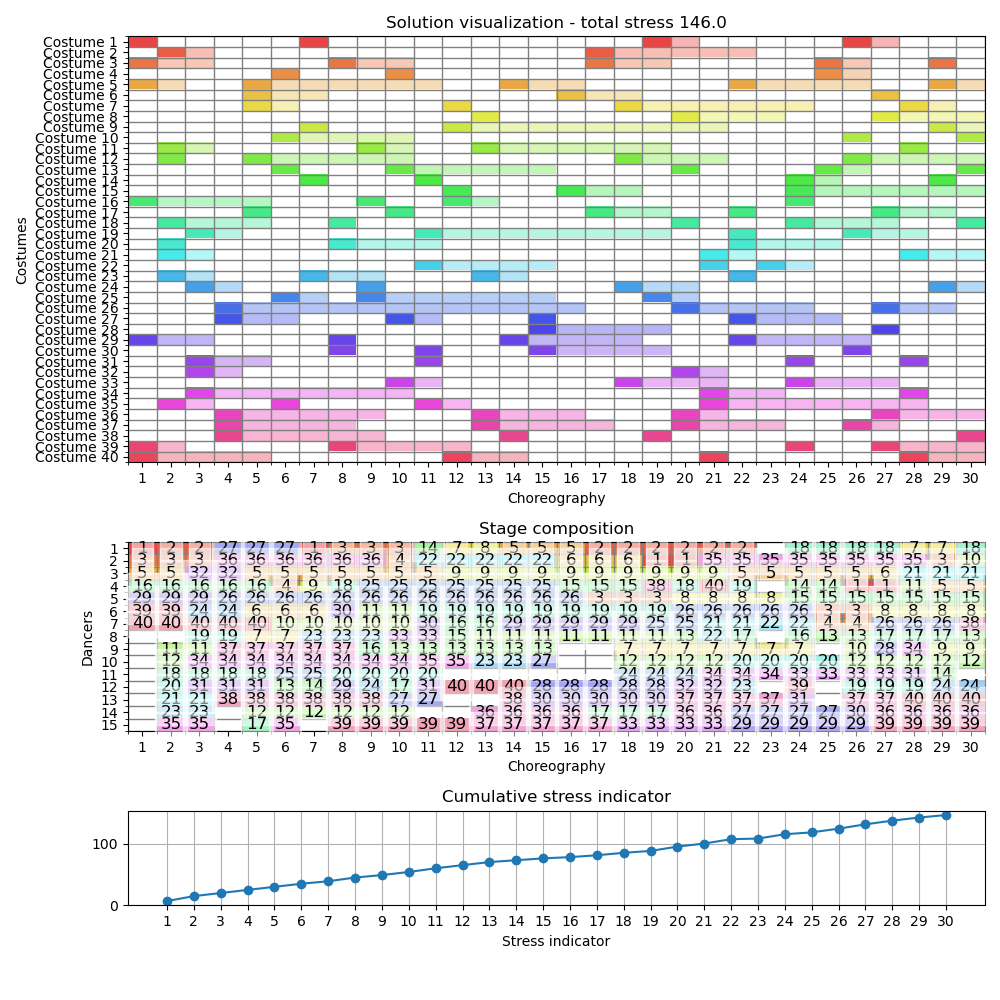
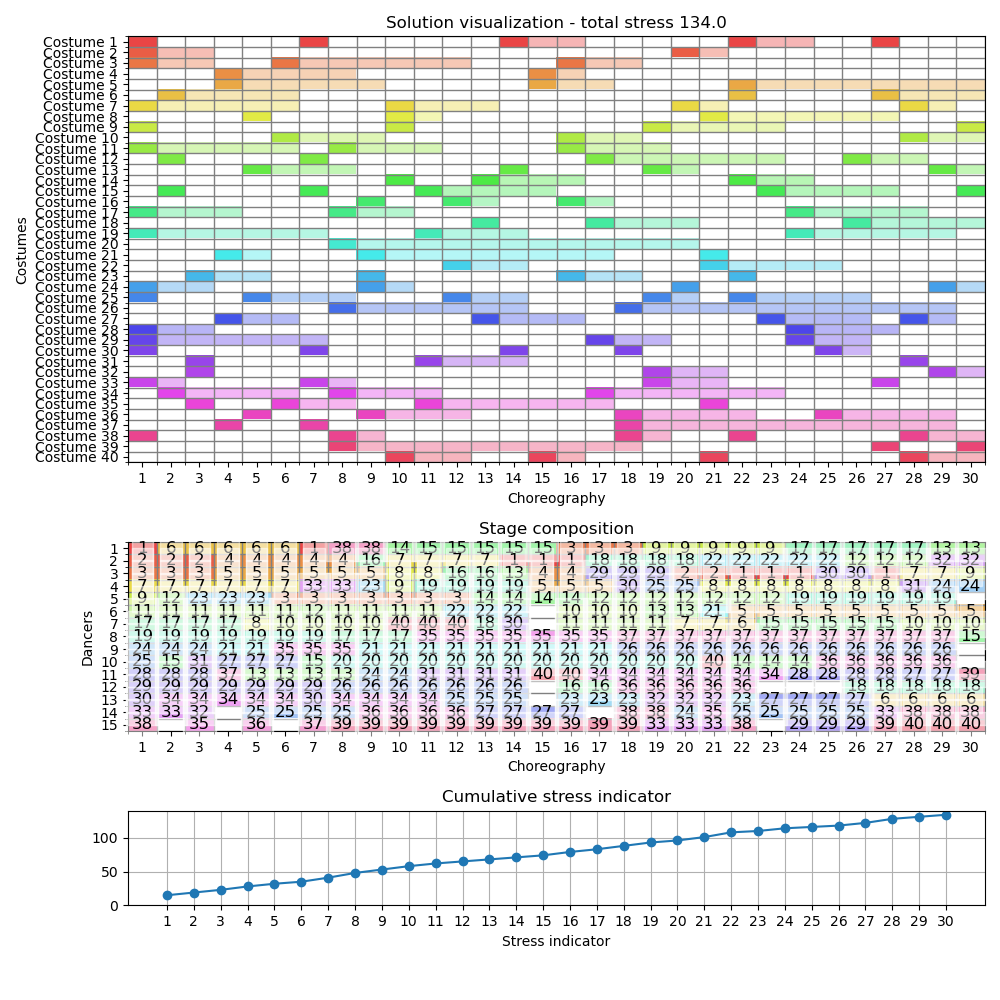
c good

diff --git a/solver_advanced.py b/solver_advanced.py
@@ -1,3 +1,6 @@
+# Enzo Pelous           2306632
+# Pierre Gallou-Guyot   2227094
+
 from utils import *
 import random
 from copy import deepcopy
@@ -23,6 +26,14 @@ class CustomSolution(Solution):
 
 def dance_permutation_neighborhood(sol: CustomSolution):
     """
+    Génère des voisins d'une solution en considérant tous les échanges de colonnes de la matrice costumes chorégraphies.
+
+    Args:
+        sol (CustomSolution) : la solution actuelle du problème
+    
+    Yields:
+        operation (Tuple[int, int]) : les indices des colonnes col1 et col2 échangées dans mat_cop
+        mat_cop (np.ndarray) : une copie de la matrice costumes chorégraphies de sol dont les colonnes col1 et col2 ont été échangées
     """
     cc_mat = sol.raw
     
@@ -35,6 +46,14 @@ def dance_permutation_neighborhood(sol: CustomSolution):
 
 def backstage_neighborhood(sol: CustomSolution):
     """
+    Génère des voisins d'une solution en considérant toutes les inversions des 1 facultatifs et des 0 de colonnes non pleines.
+
+    Args:
+        sol (CustomSolution) : la solution actuelle du problème
+    
+    Yields:
+        repr (List[int, int, int]) : les coordonées i,j de l'élément à inverser, et sa valeur (0 ou 1)
+        mat_cop (np.ndarray) : une copie de la matrice costumes chorégraphies de sol dont l'élément i,j a été changé en 1 ou en 0
     """
     cc_mat = sol.raw
 
@@ -58,27 +77,27 @@ def backstage_neighborhood(sol: CustomSolution):
             yield repr, mat_cop
 
 
-def perturbation(instance: Instance, sol: CustomSolution, t2: float) -> Solution:
+def perturbation(instance: Instance, sol: CustomSolution, t2: float) -> CustomSolution:
     """
-    Perturbe une solution en inversant un élément de la matrice de placement. Si on ne trouve pas de perturbation
-    valide pendant 5 secondes, on garde 
+    Perturbe une solution en inversant jusqu'à 20% des éléments de la matrice chorégraphies-costumes d'une solution.
+    Le vecteur des chorégraphies est mis à jour au besoin.
+    Si on ne trouve pas de perturbation valide pendant 5 secondes, on garde la matrice actuelle.
+
+    Args:
+        instance (Instance) : l'instance du problème à résoudre
+        sol (CustomSolution) : la solution actuelle du problème
+        t2 (float) : le temps d'horloge à la fin de la phase de recherche locale
+
+    Returns:
+        sol (CustomSolution) : la solution perturbée
     """
     sol_size = sol.raw.size
-    max_perturbation_size = np.random.randint(1, int(sol_size*0.1))
+    max_perturbation_size = int(sol_size*0.2) #np.random.randint(1, int(sol_size*0.5))
 
-    sol_cop = deepcopy(sol)
-    perturbation_size = np.random.randint(max_perturbation_size)
-    indices = np.random.choice(sol_size, perturbation_size)
-    for index in indices:
-        idx = np.unravel_index(index, sol_cop.raw.shape)
-        sol_cop.raw[idx] *= -1
-        sol_cop.raw[idx] += 1
-    
-    valid = instance.is_valid(sol_cop)
-
+    valid = False
     while not valid and time() - t2 < 5:
         sol_cop = deepcopy(sol)
-        perturbation_size = np.random.randint(max_perturbation_size)
+        perturbation_size = np.random.randint(2, max_perturbation_size+1) # Borne supérieure exclue avec randint
         indices = np.random.choice(sol_size, perturbation_size)
         for index in indices:
             idx = np.unravel_index(index, sol_cop.raw.shape)
@@ -87,6 +106,8 @@ def perturbation(instance: Instance, sol: CustomSolution, t2: float) -> Solution
         valid = instance.is_valid(sol_cop)
 
     if valid: # On retourne la solution sans modification si on n'a pas trouvé pendant 5 secondes
+        # Mise à jour du vecteur choreographies_order de la nouvelle solution, avec assignation bipartite entre les colonnes
+        # de raw et celles de la matrice initiale.
         temp_sol = Solution(sol_cop.raw)
 
         adj_matrix = np.zeros((len(instance.choreography2costume_int),len(temp_sol.choreography2costume_int)))
@@ -113,7 +134,6 @@ def solve(instance: Instance) -> Solution:
     Returns:
         Solution: the generated solution
     """
-    alpha = 0.2
     # Métriques de temps d'exécution
     t0 = time()
     iteration_duration = 0
@@ -128,6 +148,7 @@ def solve(instance: Instance) -> Solution:
     sol = CustomSolution(instance.costumes_choreographies_matrix, n_dancers = instance.n_dancers)
 
     neighborhoods = [dance_permutation_neighborhood, backstage_neighborhood]
+    alpha = 0.35
 
     best_sol = sol
     best_cost = instance.objective_score(sol)
@@ -139,15 +160,15 @@ def solve(instance: Instance) -> Solution:
         k = 0
         while k < 2:
             # Sélection aléatoire dans le voisinage actuel
-            optimal_operation, _ = random.choice(list(neighborhoods[k](sol)))
+            operation, _ = random.choice(list(neighborhoods[k](sol)))
 
             new_sol = deepcopy(sol)
             if k == 0: # permutation des danses
-                dance1, dance2 = optimal_operation
+                dance1, dance2 = operation
                 new_sol.raw[:, [dance2, dance1]] = new_sol.raw[:, [dance1, dance2]]
                 new_sol.choreographies_order[dance2], new_sol.choreographies_order[dance1] = new_sol.choreographies_order[dance1], new_sol.choreographies_order[dance2]
             else:      # costume en coulisses
-                row, col, flip = optimal_operation
+                row, col, flip = operation
                 new_sol.raw[row, col] = 1 - flip
             
 
@@ -170,9 +191,8 @@ def solve(instance: Instance) -> Solution:
 
                 vnd_new_cost = instance.objective_score(vnd_new_sol)
                 new_cost = instance.objective_score(new_sol)
-                vnd_delta = vnd_new_cost - new_cost
                 
-                if vnd_new_cost < new_cost + alpha*vnd_delta:
+                if vnd_new_cost < new_cost:
                     new_sol = vnd_new_sol
                     kvnd = 0
                 else:
@@ -180,8 +200,9 @@ def solve(instance: Instance) -> Solution:
             
             cost = instance.objective_score(sol)
             new_cost = instance.objective_score(new_sol)
-            delta = new_cost - cost
+            delta = np.sum((new_sol.raw - sol.raw)**2) # Distance entre les deux matrices de solution
             
+            # Critère d'acceptation biaisé
             if new_cost < cost + alpha*delta:
                 sol = new_sol
                 k = 0
@@ -195,8 +216,8 @@ def solve(instance: Instance) -> Solution:
         
         t2 = time()
         iteration_duration = t2 - t1
-        print(time() - t0, best_cost)
 
+        # ILS : perturbation de la solution avant de recommencer la recherche locale
         sol = perturbation(instance, sol, t2)
     
 
